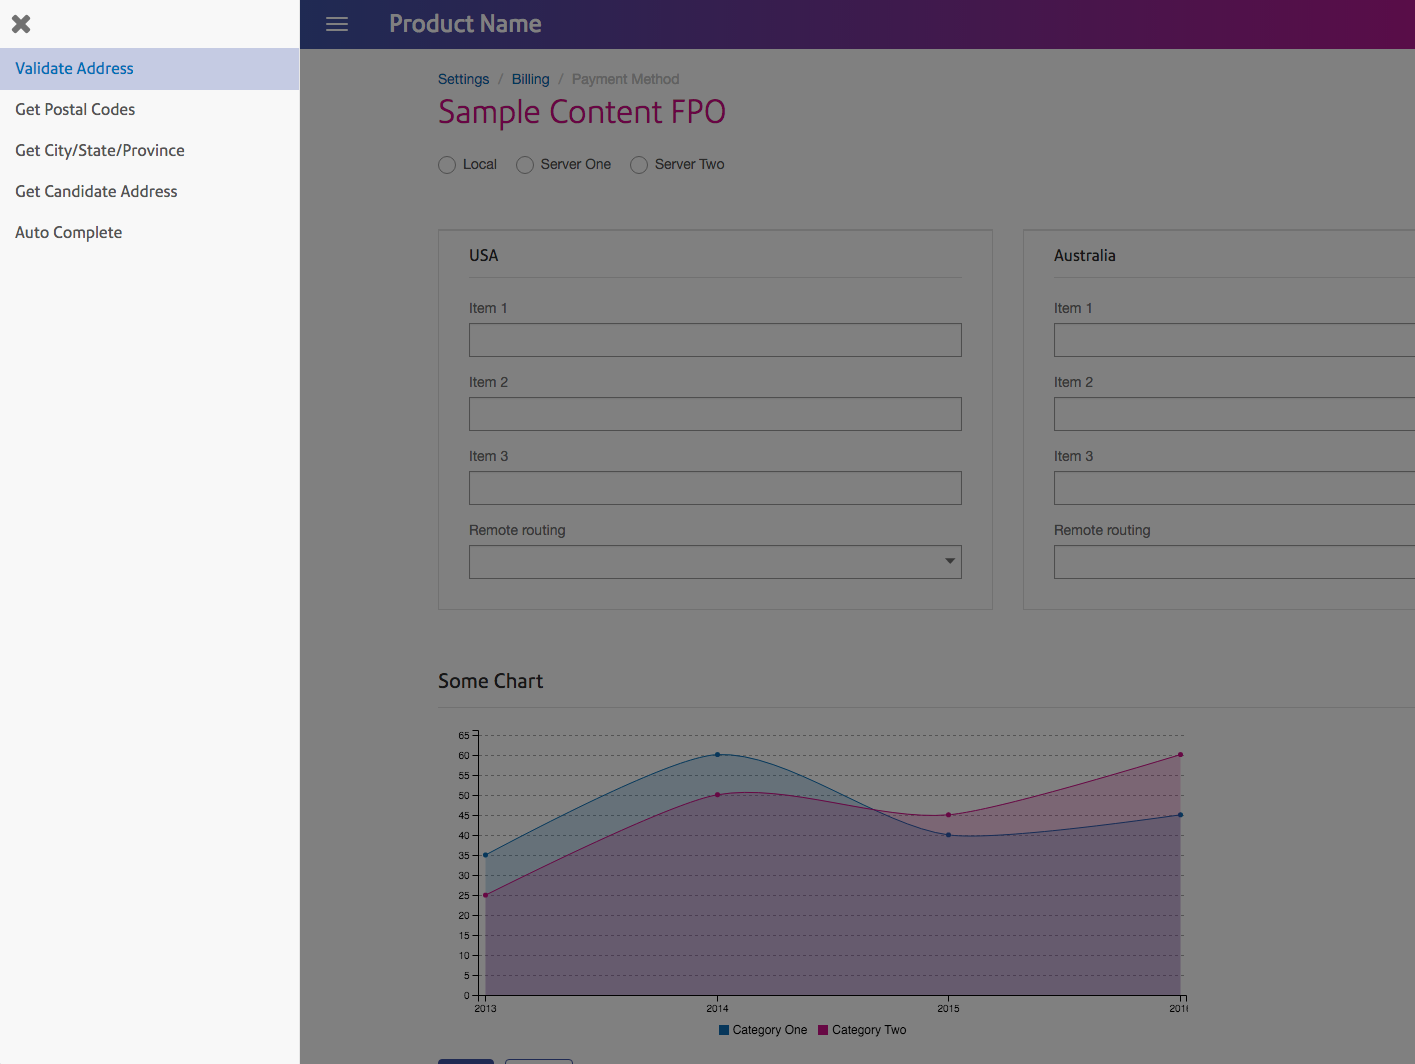
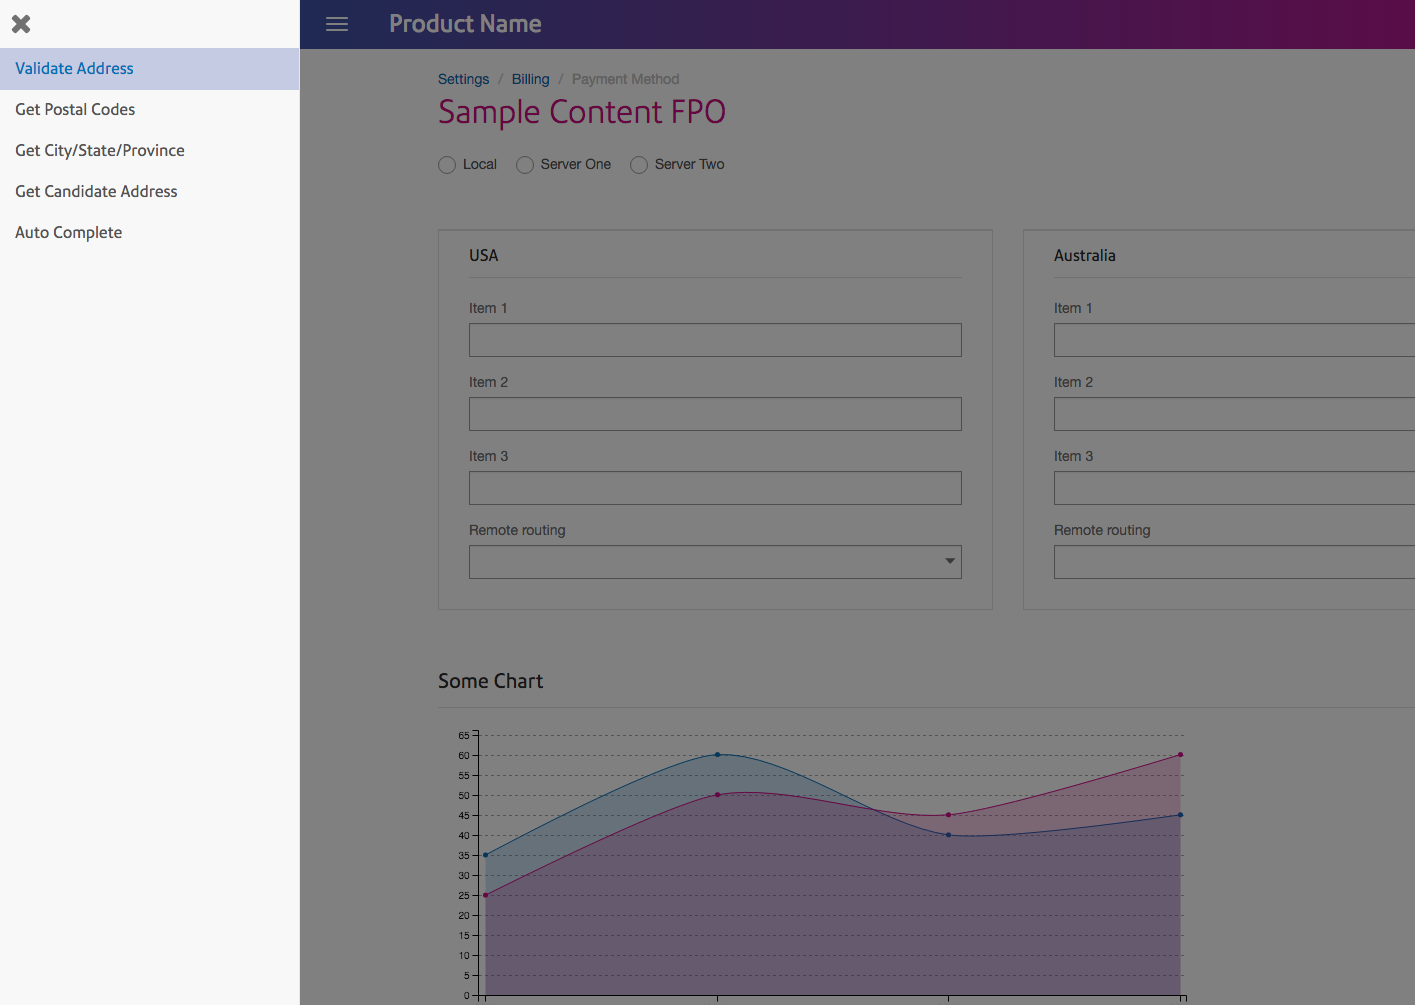
added slide

diff --git a/app/modules/hamburger/templates/hamburger-overview.html b/app/modules/hamburger/templates/hamburger-overview.html
@@ -52,33 +52,11 @@
 
     <div class="col-md-6">
       <figcaption>Off-canvas "slide"</figcaption>
-      <a href="" ui-sref="hamburger.slide" target="_blank"><img class="img-responsive framed"  src="modules/patterns/assets/images/splitview-two.png" /></a>
+      <a href="" ui-sref="hamburger.slide" target="_blank"><img class="img-responsive framed"  src="modules/hamburger/assets/images/burger-slide.png" /></a>
     </div>
   </div>
 
 
-
-  <div class="row spacer-top-lg">
-    <div class="col-md-6">
-      <figcaption>White Bar and Background, 3 Rules</figcaption>
-      <a href="" ui-sref="splitview.three" target="_blank"><img class="img-responsive framed"  src="modules/patterns/assets/images/splitview-three.png" /></a>
-    </div>
-
-
-    <div class="col-md-6">
-      <figcaption>White Navbar and Background, 1 Rule</figcaption>
-      <a href="" ui-sref="splitview.four" target="_blank"><img class="img-responsive framed"  src="modules/patterns/assets/images/splitview-four.png" /></a>
-    </div>
-  </div>
-
-
-
-  <div class="row spacer-top-lg">
-    <div class="col-md-6">
-      <figcaption>White Navbar and Background, 1 Rule, Container Fluid</figcaption>
-      <a href="" ui-sref="splitview.five" target="_blank"><img class="img-responsive framed"  src="modules/patterns/assets/images/splitview-five.png" /></a>
-    </div>
-  </div>
 
   <div class="row">
     <div class="col-md-8">

diff --git a/app/modules/hamburger/templates/hamburger-slide.html b/app/modules/hamburger/templates/hamburger-slide.html
@@ -1,5 +1,5 @@
-<nav id="myNavmenu" class="navmenu navmenu-default navmenu-fixed-left offcanvas" role="navigation">
-  <div class="close-burger" data-toggle="offcanvas" data-target="#myNavmenu" data-canvas="body">
+<nav id="myNavmenu" class="navmenu navmenu-default navmenu-fixed-left offcanvas sliding" role="navigation">
+  <div class="close-burger" data-toggle="offcanvas" data-target="#myNavmenu">
     <!-- <span class="nc-icon-mini ui-1_simple-remove" aria-hidden="true"></span> -->
     <span class="fa fa-times fa-2x" aria-hidden="true"></span>
   </div>
@@ -13,7 +13,7 @@
 
 </nav>
 <div class="navbar navbar-default navbar-fixed-top">
-  <button type="button" class="navbar-toggle" data-toggle="offcanvas" data-target="#myNavmenu" data-canvas="body">
+  <button type="button" class="navbar-toggle" data-toggle="offcanvas" data-target="#myNavmenu">
     <span class="icon-bar"></span>
     <span class="icon-bar"></span>
     <span class="icon-bar"></span>

diff --git a/app/modules/hamburger/assets/sass/_hamburger.scss b/app/modules/hamburger/assets/sass/_hamburger.scss
@@ -16,6 +16,11 @@
     border: 0;
     border-radius: 0;
     border-bottom: 0;
+
+  }
+
+  .offcanvas.sliding {
+    box-shadow: 3px 0 10px hsla(0, 0, 0, .3);
   }
 
   .navbar-toggle {
@@ -51,7 +56,7 @@
     left: 0;
     z-index: 1040;
     background-color: hsla(0, 0, 0, 0);
-    &.canvas-slid {
+    &.canvas-slid, ~ .canvas-slid {
       display: block;
       background-color: hsla(0, 0, 0, .5);
       visibility: visible;
